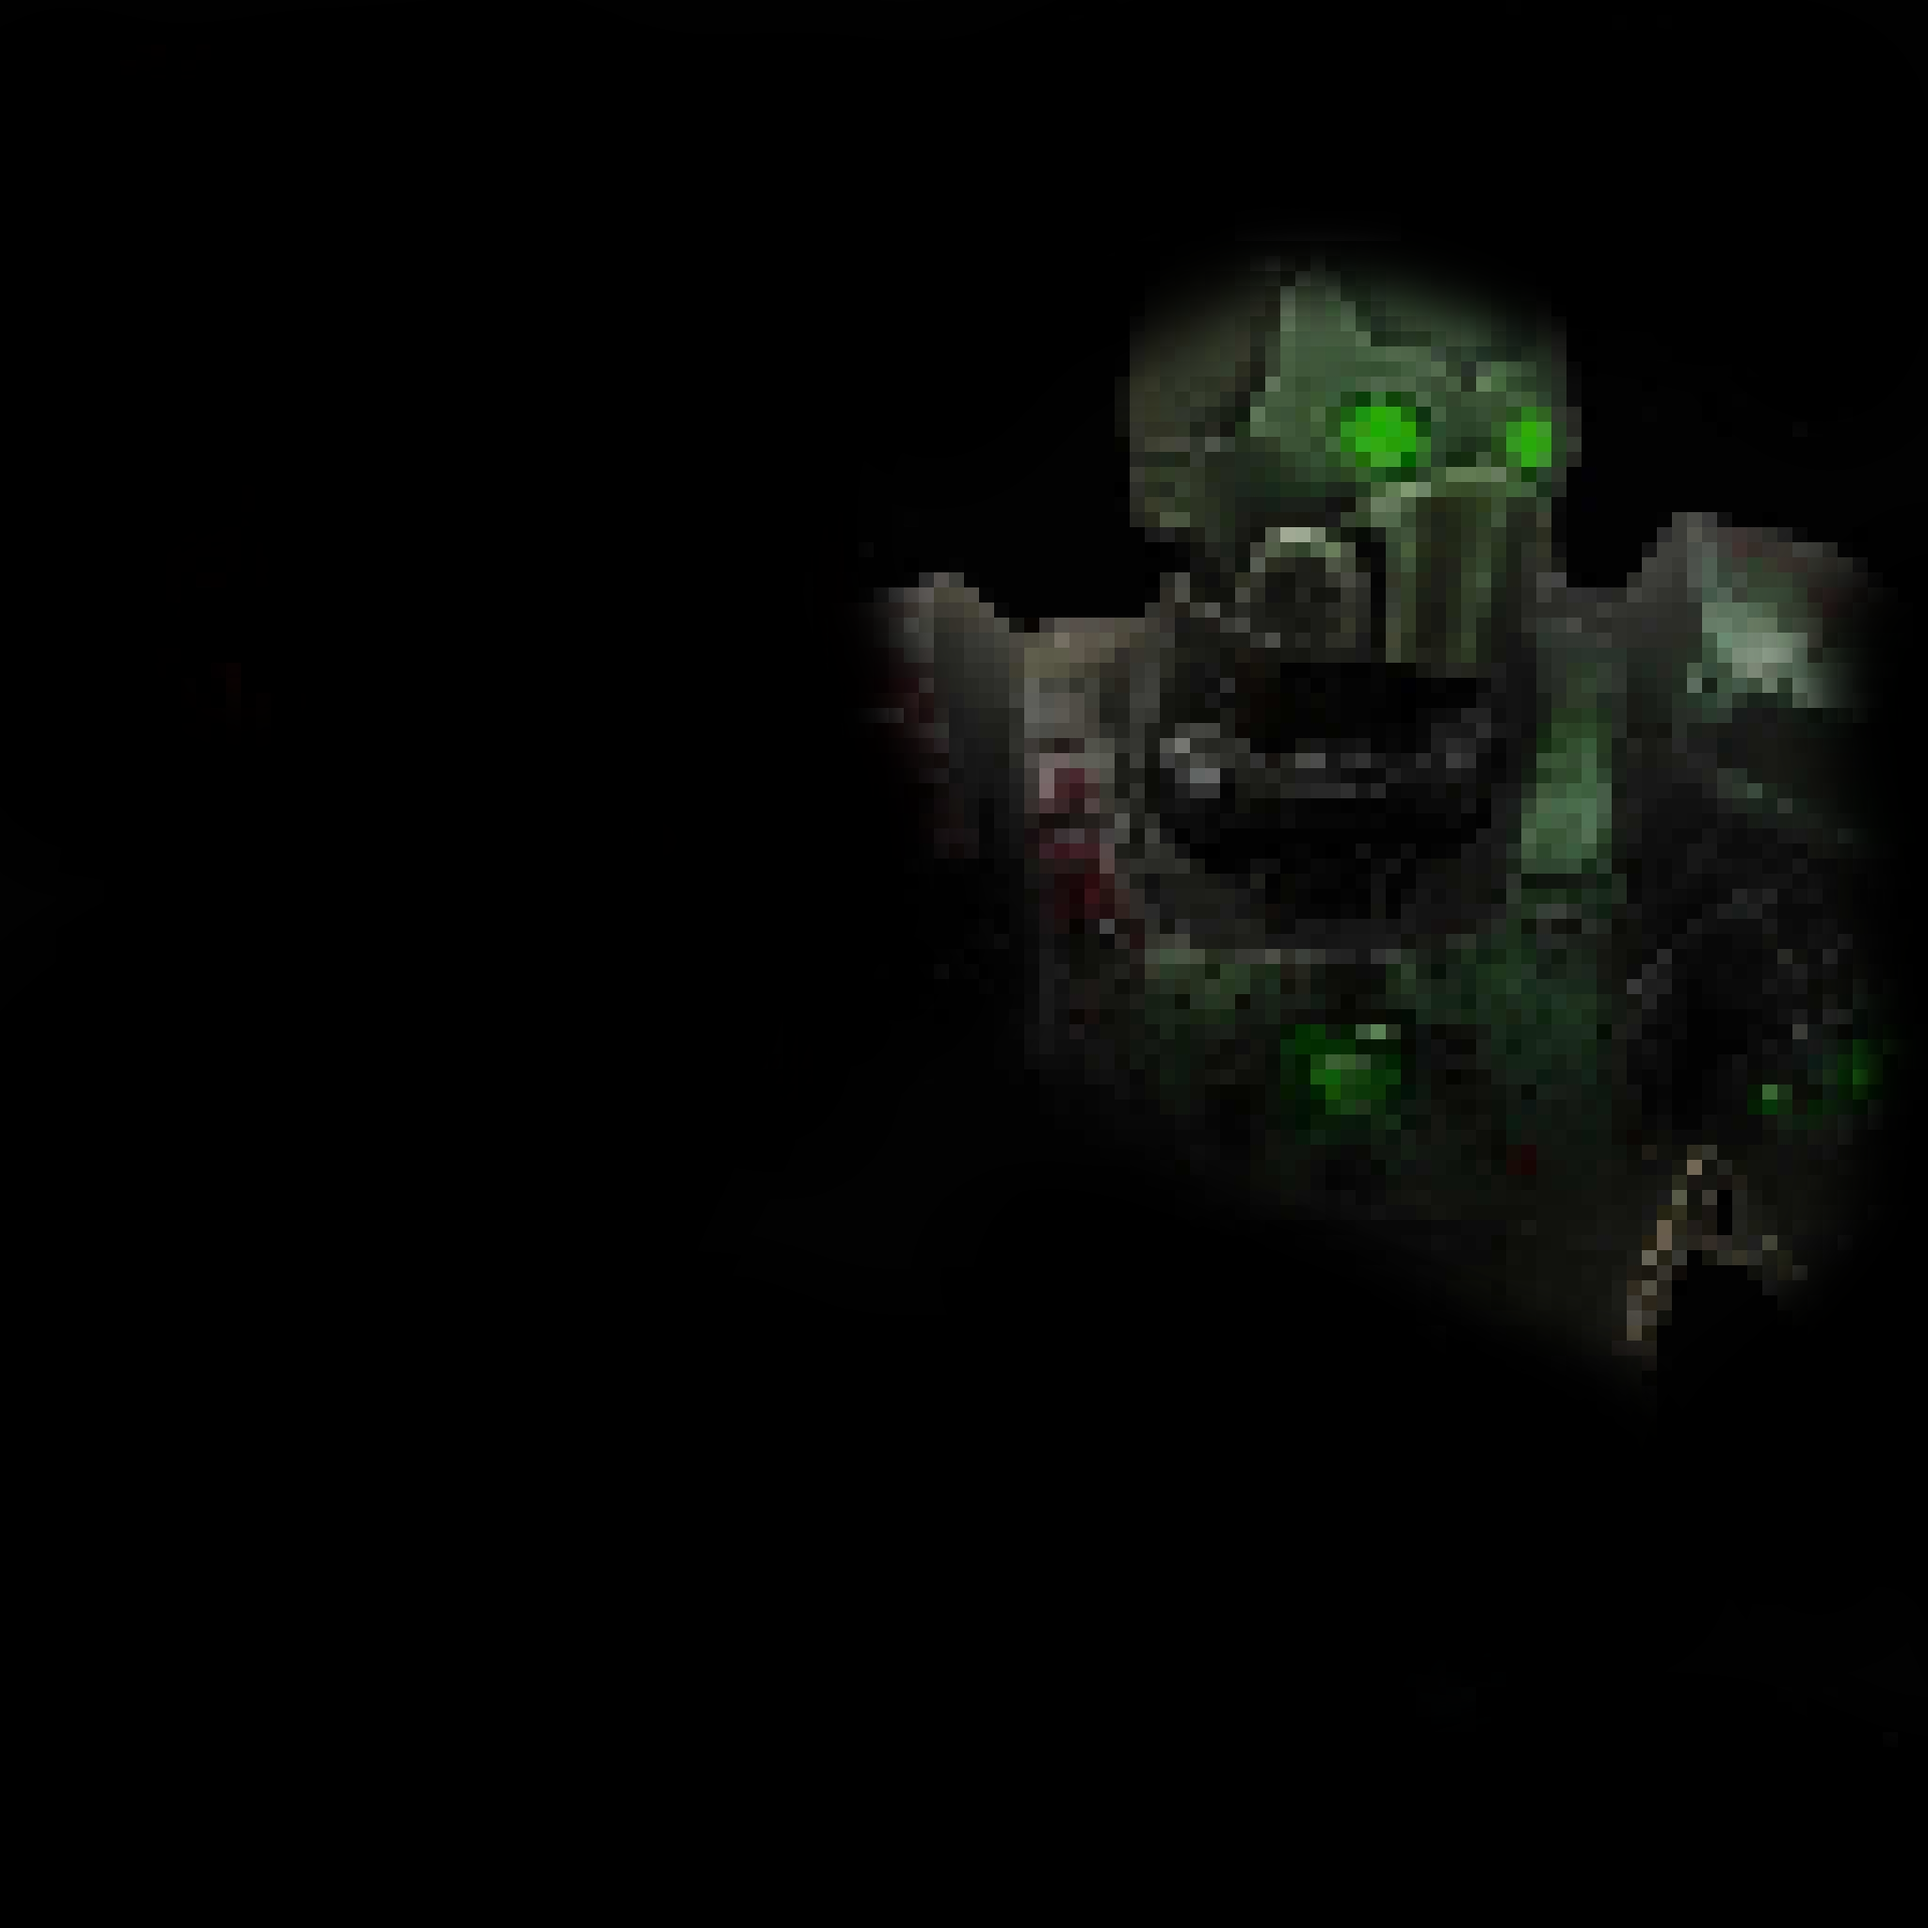
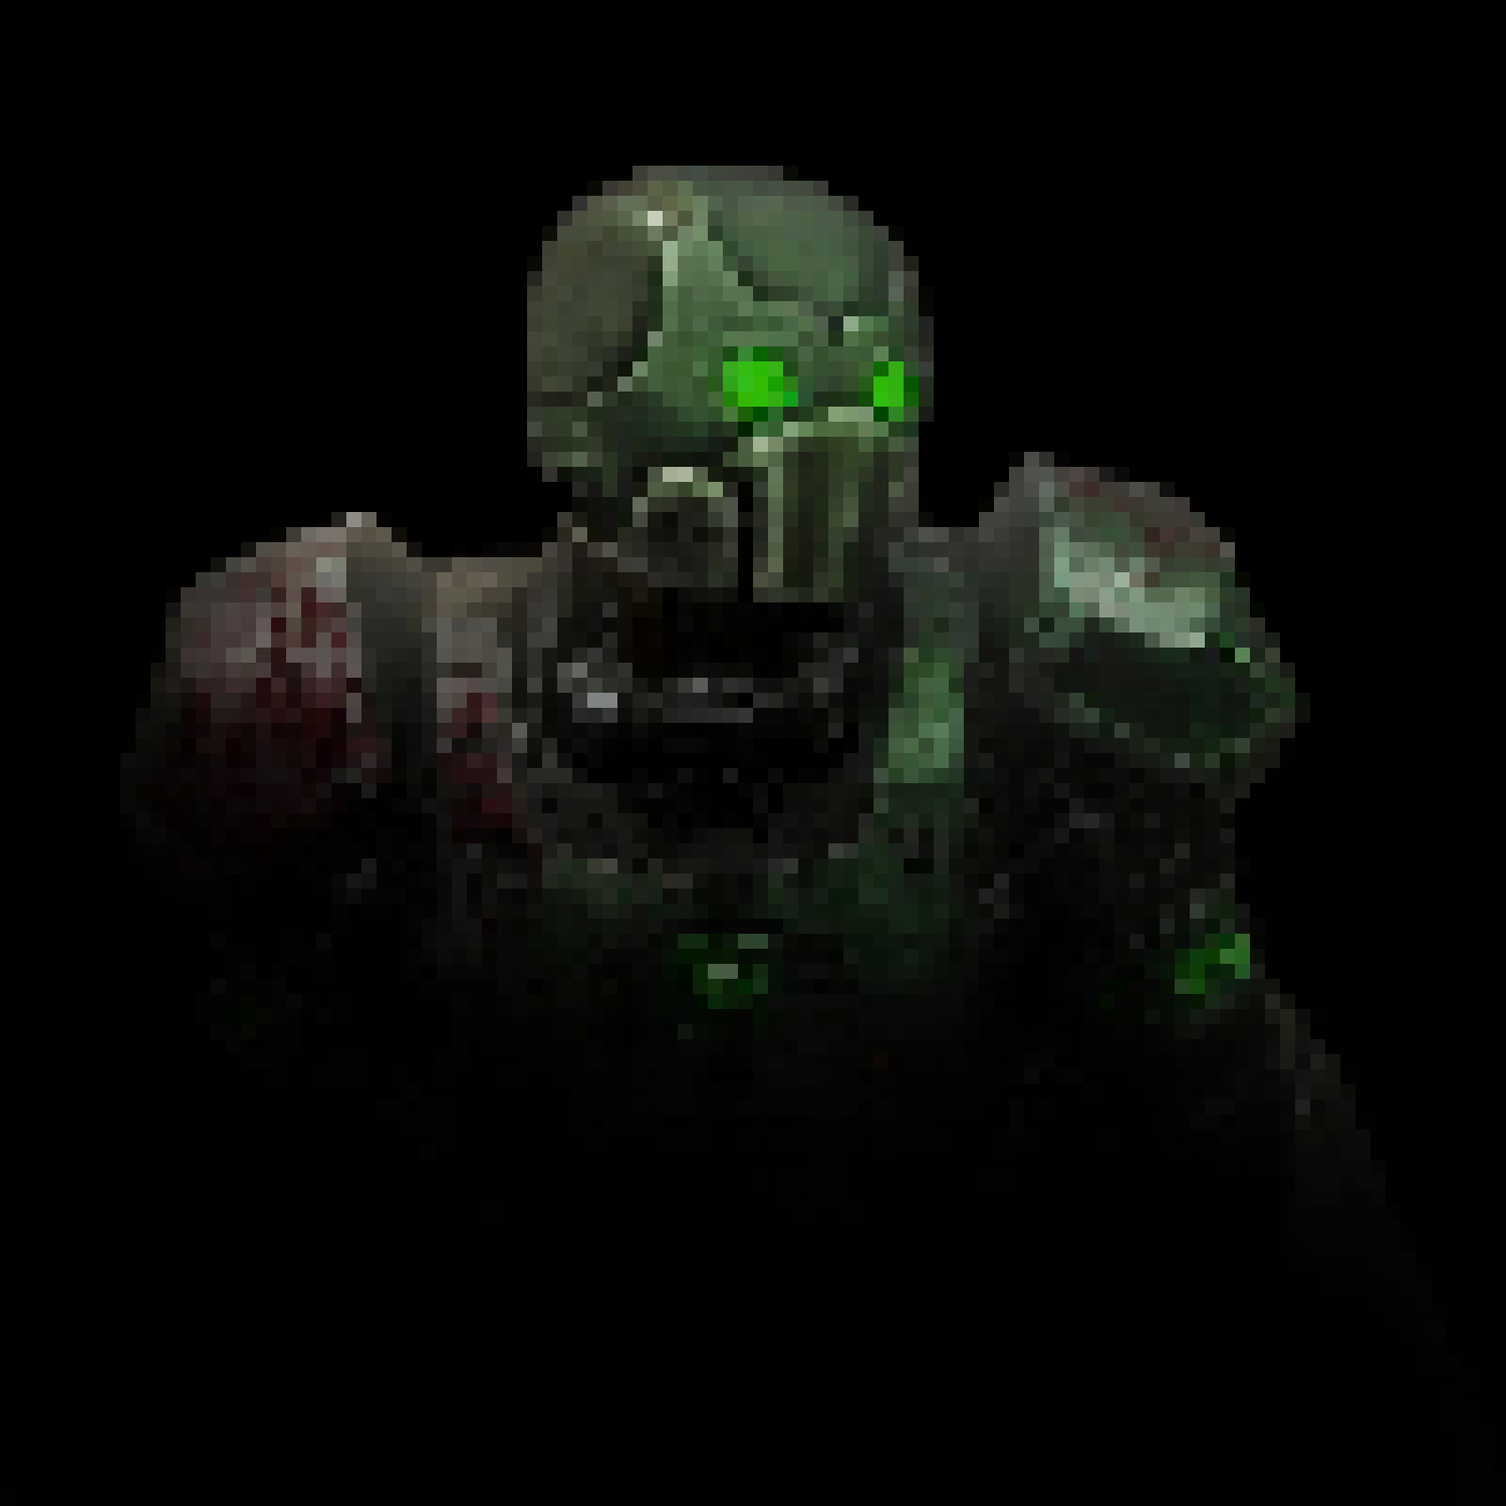
homeimage

Changed region(s): [[0.0938, 0.0938, 0.9688, 0.6875], [0.7812, 0.5938, 0.9375, 0.75]]

diff --git a/home.css b/home.css
@@ -79,8 +79,9 @@ body{
 img{
     width: 50vw;
     position: absolute;
-    top: 5vh; right: 20vw;
+    top: 0; right: 0;
     z-index: -1;
+    opacity: 0.65;
 }
 
 
@@ -101,9 +102,9 @@ img{
     }
 
     img{
-        opacity: 0.5;
+        opacity: 0.4;
         width: 90vw;
-        top: 5vh; left: 0;
+        top: 6vh; left: 0;
 
     }
 
